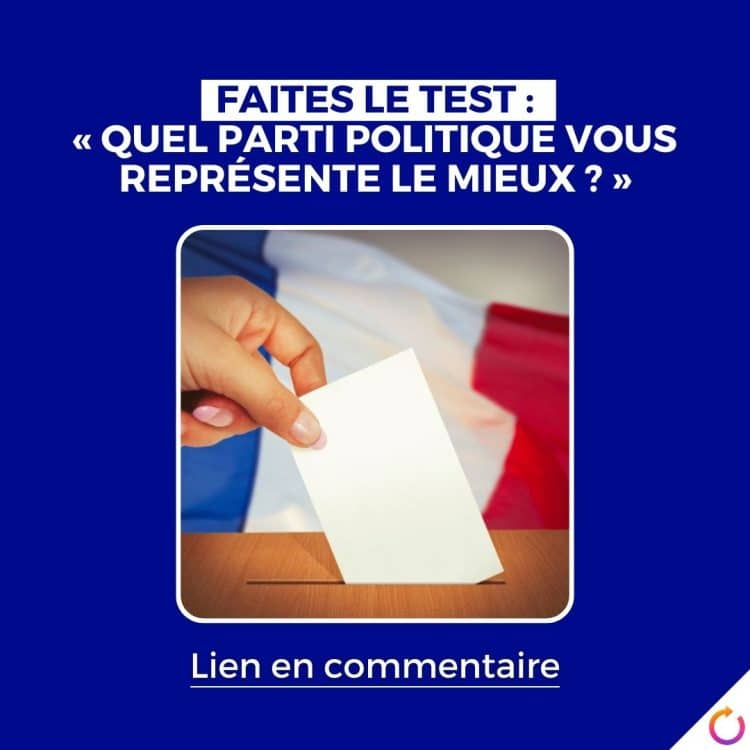
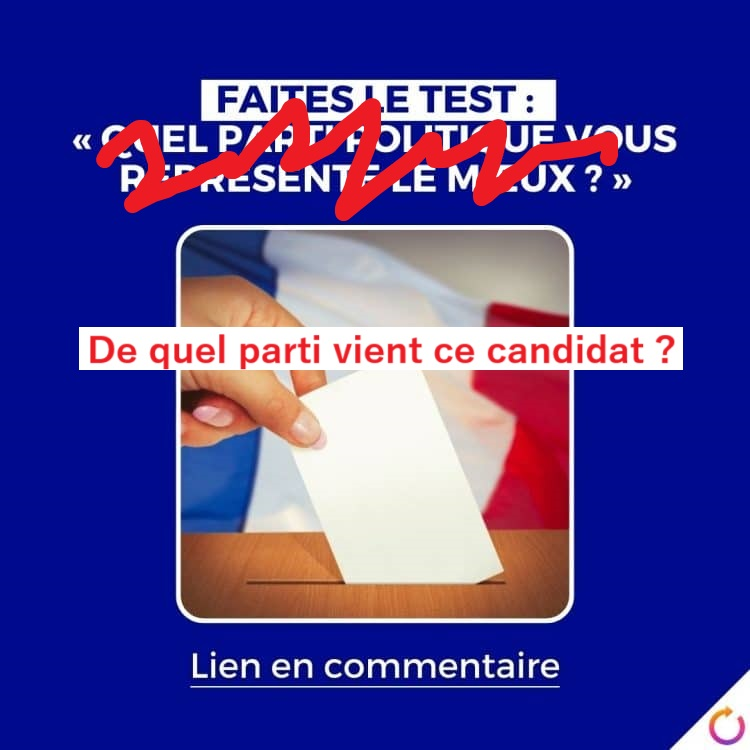
try github pages

Changed region(s): [[0.1227, 0.1227, 0.828, 0.3067], [0.092, 0.4293, 0.92, 0.5213]]

diff --git a/pages/game/article_de_mams.js b/pages/game/article_de_mams.js
@@ -1,15 +1,15 @@
 var images = [
-	"../../assets/img/guess_image/rules.png",
-	"../../assets/img/guess_image/article1.png",
-    "../../assets/img/guess_image/article2.png",
-    "../../assets/img/guess_image/article3.png",
-    "../../assets/img/guess_image/article4.png",
-    "../../assets/img/guess_image/article5.png",
-    "../../assets/img/guess_image/article6.png",
-    "../../assets/img/guess_image/article7.png",
-    "../../assets/img/guess_image/article8.png",
-    "../../assets/img/guess_image/article9.png",
-    "../../assets/img/guess_image/article10.png",
+	"../../assets/img/article_de_mams/rules.png",
+	"../../assets/img/article_de_mams/article1.png",
+    "../../assets/img/article_de_mams/article2.png",
+    "../../assets/img/article_de_mams/article3.png",
+    "../../assets/img/article_de_mams/article4.png",
+    "../../assets/img/article_de_mams/article5.png",
+    "../../assets/img/article_de_mams/article6.png",
+    "../../assets/img/article_de_mams/article7.png",
+    "../../assets/img/article_de_mams/article8.png",
+    "../../assets/img/article_de_mams/article9.png",
+    "../../assets/img/article_de_mams/article10.png",
 	"../../assets/img/end.png",
 ]
 

diff --git a/pages/game/fais_deviner.js b/pages/game/fais_deviner.js
@@ -1,4 +1,12 @@
 const images = [
+        // Aita images
+    "../../assets/img/fais_deviner/aita0.png",
+    "../../assets/img/fais_deviner/aita1.png",
+    "../../assets/img/fais_deviner/aita2.png",
+    "../../assets/img/fais_deviner/aita3.png",
+    "../../assets/img/fais_deviner/aita4.png",
+    "../../assets/img/fais_deviner/aita5.png",
+    
 	// Aitor images
 	"../../assets/img/fais_deviner/kimlong0.png",
 	"../../assets/img/fais_deviner/kimlong1.png",
@@ -14,14 +22,6 @@ const images = [
     "../../assets/img/fais_deviner/sam3.png",
     "../../assets/img/fais_deviner/sam4.png",
     "../../assets/img/fais_deviner/sam5.png",
-    
-    // Aita images
-    "../../assets/img/fais_deviner/aita0.png",
-    "../../assets/img/fais_deviner/aita1.png",
-    "../../assets/img/fais_deviner/aita2.png",
-    "../../assets/img/fais_deviner/aita3.png",
-    "../../assets/img/fais_deviner/aita4.png",
-    "../../assets/img/fais_deviner/aita5.png",
     
     // Amaya images
     "../../assets/img/fais_deviner/amayo0.png",
